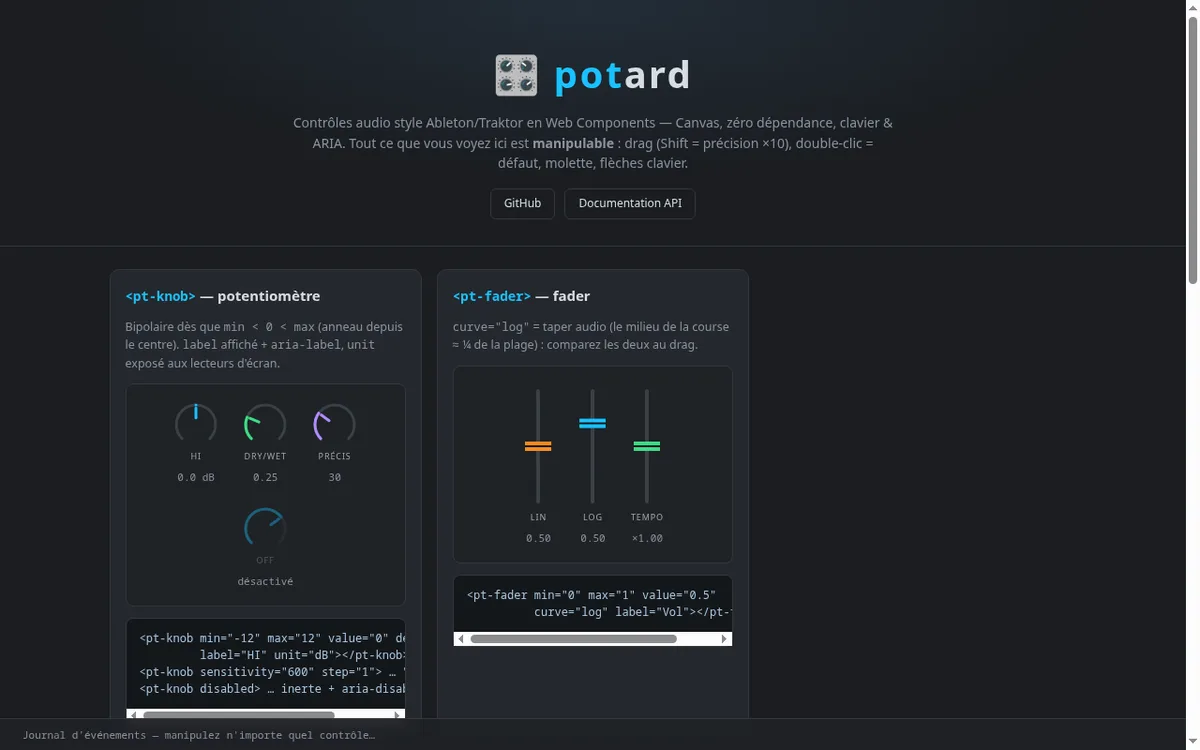
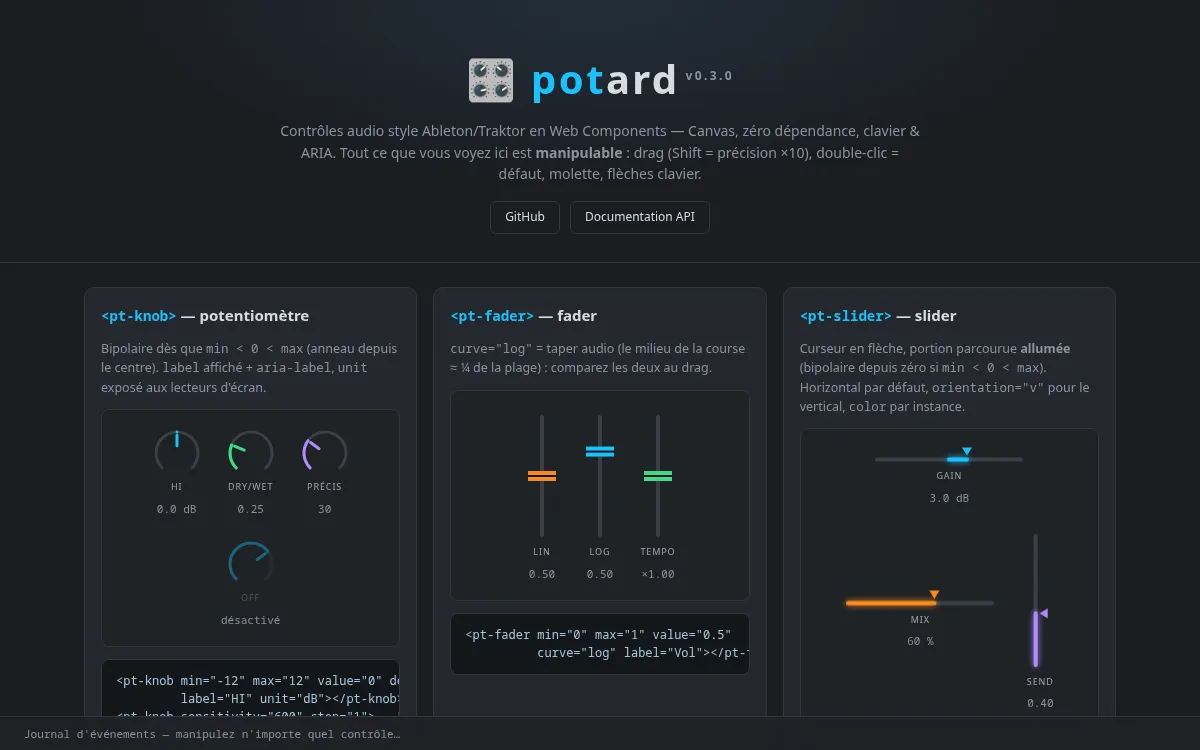
potard v0.3.0 : sliders à flèche et groupes à somme constante, capture fraîche

diff --git a/index.html b/index.html
@@ -1124,7 +1124,7 @@
           <span class="pc-name">potard</span>
           <span class="pc-lang lang-ts"><span class="lang-dot"></span> TypeScript</span>
         </div>
-        <div class="pc-desc">Controles audio style Ableton/Traktor en Web Components : knobs, faders, crossfader. Zero dependance, docs interactives.</div>
+        <div class="pc-desc">Controles audio style Ableton/Traktor en Web Components : knobs, faders, sliders, crossfader et groupes a somme constante (budget, points…). Zero dependance, docs interactives.</div>
       </a>
 
       <a href="https://github.com/yrbane/veilleur" class="project-card">
@@ -1202,7 +1202,7 @@
       </a>
       <a class="demo-tile" href="https://yrbane.github.io/potard/">
         <img src="shots/potard.webp" alt="potard" loading="lazy">
-        <span>potard &mdash; tripote les knobs (docs interactives) 🎚</span>
+        <span>potard &mdash; tripote les knobs, repartis ton budget au slider 🎚</span>
       </a>
       <a class="demo-tile" href="https://yrbane.github.io/geo3d/">
         <img src="shots/geo3d.webp" alt="geo3d" loading="lazy">
